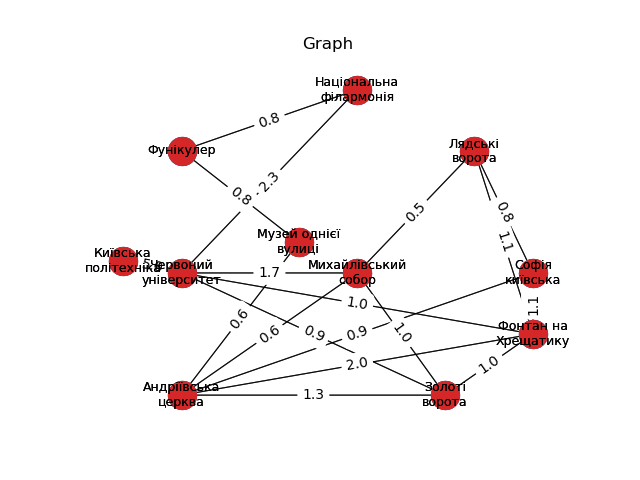
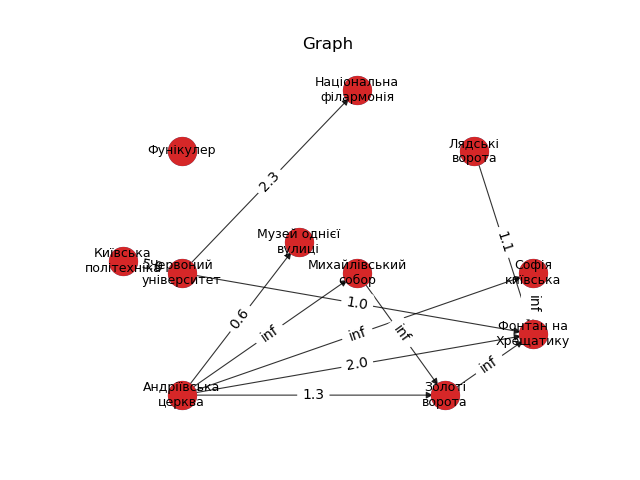
lab3 fix

diff --git a/lab_3_and_2/graph.py b/lab_3_and_2/graph.py
@@ -19,11 +19,16 @@ class Graph:
         self._position = (None, None)
 
 
-    def add_edge(self, u, v, distance, flow):
-        self.distances[u][v] = distance
-        self.distances[v][u] = distance
-        self.flows[u][v] = flow
-        self.flows[v][u] = flow
+    def add_edge(self, u, v, distance, flow, one_way=False):
+        if not one_way:
+            self.distances[u][v] = distance
+            self.distances[v][u] = distance
+            self.flows[u][v] = flow
+            self.flows[v][u] = flow
+        else:
+            self.distances[u][v] = distance
+            self.flows[u][v] = flow
+
 
     def remove_edge(self, u, v):
         self.distances[u][v] = np.inf
@@ -119,6 +124,24 @@ class GraphOperations:
         return transposed_graph
 
 
+
+    @classmethod
+    def dfs(cls, graph, node, visited, stack):
+        visited[node] = True
+        for neighbor in range(graph.num_nodes):
+            if graph.distances[node][neighbor] != float('inf') and not visited[neighbor]:
+                cls.dfs(graph, neighbor, visited, stack)
+        stack.append(node)
+
+    @staticmethod
+    def transpose(graph):
+        transposed_graph = Graph(graph.num_nodes)
+        for i in range(graph.num_nodes):
+            for j in range(graph.num_nodes):
+                if graph.distances[i][j] != float('inf'):
+                    transposed_graph.add_edge(j, i, graph.distances[i][j], graph.flows[i][j])
+        return transposed_graph
+
     @classmethod
     def algorythm_component_silnoji_zviyaznosty_po_shlyahah(cls, graph):
         visited = [False] * graph.num_nodes
@@ -130,7 +153,6 @@ class GraphOperations:
         transposed_graph = cls.transpose(graph)
 
         visited = [False] * graph.num_nodes
-
         scc_list = []
         while stack:
             current_node = stack.pop()
@@ -138,10 +160,49 @@ class GraphOperations:
                 scc = []
                 cls.dfs(transposed_graph, current_node, visited, scc)
                 scc_list.append(scc)
-
         return scc_list
 
+    @classmethod
+    def tarjan_scc(cls, graph):
+        graph.index = 0
+        graph.stack = []
+        graph.scc_list = []
+        graph.index_tracker = [None] * graph.num_nodes
+        graph.low_link = [None] * graph.num_nodes
+        graph.on_stack = [False] * graph.num_nodes
 
+        for node in range(graph.num_nodes):
+            if graph.index_tracker[node] is None:
+                cls.tarjan_dfs(graph, node)
+
+        return graph.scc_list
+
+    @classmethod
+    def tarjan_dfs(cls, graph, node):
+        graph.index_tracker[node] = graph.index
+        graph.low_link[node] = graph.index
+        graph.index += 1
+        graph.stack.append(node)
+        graph.on_stack[node] = True
+
+        for neighbor in range(graph.num_nodes):
+            if graph.distances[node][neighbor] != float('inf'):
+                if graph.index_tracker[neighbor] is None:
+                    cls.tarjan_dfs(graph, neighbor)
+                    graph.low_link[node] = min(graph.low_link[node], graph.low_link[neighbor])
+                elif graph.on_stack[neighbor]:
+                    graph.low_link[node] = min(graph.low_link[node], graph.index_tracker[neighbor])
+
+        if graph.low_link[node] == graph.index_tracker[node]:
+            scc = []
+            while True:
+                popped_node = graph.stack.pop()
+                scc.append(popped_node)
+                graph.on_stack[popped_node] = False
+                if popped_node == node:
+                    break
+            graph.scc_list.append(scc)
+            
     @staticmethod
     def graph_coloring(graph):
         colors = {}
@@ -225,49 +286,6 @@ class GraphOperations:
             return max_flow, paths
         return max_flow
 
-
-    @classmethod
-    def tarjan_scc(cls, graph: Graph):
-        graph.index = 0
-        graph.stack = []
-        graph.scc_list = []
-        graph.index_tracker = [None] * graph.num_nodes
-        graph.low_link = [None] * graph.num_nodes
-        graph.on_stack = [False] * graph.num_nodes
-
-        for node in range(graph.num_nodes):
-            if graph.index_tracker[node] is None:
-                cls.tarjan_dfs(graph, node)
-
-        return graph.scc_list
-
-
-    @classmethod
-    def tarjan_dfs(cls, graph, node):
-        graph.index_tracker[node] = graph.index
-        graph.low_link[node] = graph.index
-        graph.index += 1
-        graph.stack.append(node)
-        graph.on_stack[node] = True
-
-        for neighbor in range(graph.num_nodes):
-            if graph.get_distance(node, neighbor) != np.inf:
-                if graph.index_tracker[neighbor] is None:
-                    cls.tarjan_dfs(graph, neighbor)
-                    graph.low_link[node] = min(graph.low_link[node], graph.low_link[neighbor])
-                elif graph.on_stack[neighbor]:
-                    graph.low_link[node] = min(graph.low_link[node], graph.index_tracker[neighbor])
-
-        if graph.low_link[node] == graph.index_tracker[node]:
-            scc = []
-            while True:
-                top = graph.stack.pop()
-                graph.on_stack[top] = False
-                scc.append(top)
-                if top == node:
-                    break
-            graph.scc_list.append(scc)
-
     # Перейменована хрінь по-суті
     @classmethod
     def find_scc_path_based(cls, graph):
@@ -306,32 +324,34 @@ class GraphOperations:
                     break
             graph.scc_list.append(scc)
         return graph.scc_list
-
-
     @staticmethod
-    def draw_kiyv_map(kiyv_map:Graph, label="kiyv_map", paths:List[List[Tuple[int, int]]]=[], scc=[]):
-        G = nx.Graph()
+    def draw_kiyv_map(kiyv_map: Graph, label="kiyv_map", paths: List[List[Tuple[int, int]]] = [], scc=[]):
+        G = nx.DiGraph()  # Use directed graph since there are one-way connections
         G.add_nodes_from(range(kiyv_map.num_nodes))
 
         for u in range(kiyv_map.num_nodes):
-            for v in range(u + 1, kiyv_map.num_nodes):
+            for v in range(kiyv_map.num_nodes):
+                if u == v:
+                    continue
                 if kiyv_map.distances[u][v] != np.inf:
-                    G.add_edge(u, v, weight=kiyv_map.distances[u][v])
-                    
+                    G.add_edge(u, v, weight=kiyv_map.distances[u][v]*6)
+                if kiyv_map.distances[v][u] != np.inf:  # Also check reverse direction
+                    G.add_edge(v, u, weight=kiyv_map.distances[v][u]*6)
+
         pos = nx.spring_layout(G)
-        colors = ["tab:red", "tab:blue", "tab:green", "yellow", "orange", "indigo"] * 10 
-        
+        colors = ["tab:red", "tab:blue", "tab:green", "yellow", "orange", "indigo"] * 10
+
         for node in range(kiyv_map.num_nodes):
             pos[node] = np.array(kiyv_map.get_pos(node))
 
         nx.draw_networkx_nodes(G, pos, node_size=400)
         for lst, color in zip(scc, colors):
             nx.draw_networkx_nodes(G, pos, lst, node_size=400, node_color=color)
-        
-        nx.draw_networkx_edges(G,  pos,  width=0.8, alpha=0.8, arrows=True)
+
+        nx.draw_networkx_edges(G, pos, width=0.8, alpha=0.8, arrows=True, arrowstyle='->', arrowsize=20)
         for path, color in zip(paths, colors):
-            nx.draw_networkx_edges(G, pos, edgelist=path,width=5, edge_color=color)
-            
+            nx.draw_networkx_edges(G, pos, edgelist=path, width=5, edge_color=color, arrows=True, arrowstyle='->', arrowsize=20)
+
         labels = {node: kiyv_map.get_label(node) for node in G.nodes()}
         nx.draw_networkx_labels(G, pos, labels, font_size=9, font_color='black')
 
@@ -342,6 +362,7 @@ class GraphOperations:
         plt.axis("off")
         plt.savefig(Config.output_dir + f'{label}.png')
         plt.show()
+
 
     @staticmethod
     def draw_graph(graph, label="graph"):

diff --git a/lab_3_and_2/main_lab3.py b/lab_3_and_2/main_lab3.py
@@ -47,34 +47,33 @@ except: pass
 
 
 kiyv_map = Graph(11)
-kiyv_map.add_edge(u=0, v=6, distance=5.0,   flow=400)
-kiyv_map.add_edge(u=0, v=7, distance=1.0,   flow=400)
-kiyv_map.add_edge(u=0, v=9, distance=2.5,   flow=400)
-
-kiyv_map.add_edge(u=1, v=2, distance=0.6,   flow=400)
-kiyv_map.add_edge(u=1, v=3, distance=1.3,   flow=400)
-kiyv_map.add_edge(u=1, v=7, distance=2.0,   flow=400)
-kiyv_map.add_edge(u=1, v=8, distance=0.95,  flow=400)
-kiyv_map.add_edge(u=1, v=10, distance=0.6,  flow=400)
-kiyv_map.add_edge(u=2, v=0, distance=1.7,   flow=400)
-kiyv_map.add_edge(u=2, v=3, distance=1.0,   flow=400)
-kiyv_map.add_edge(u=3, v=0, distance=0.9,   flow=400)
-kiyv_map.add_edge(u=3, v=1, distance=1.3,   flow=400)
-kiyv_map.add_edge(u=3, v=7, distance=1.0,   flow=400)
-kiyv_map.add_edge(u=3, v=3, distance=0.55,  flow=400)
-kiyv_map.add_edge(u=4, v=2, distance=0.5,   flow=400)
-kiyv_map.add_edge(u=4, v=7, distance=1.1,   flow=400)
-kiyv_map.add_edge(u=5, v=5, distance=0.75,  flow=400)
-kiyv_map.add_edge(u=6, v=0, distance=5.0,   flow=400)
-kiyv_map.add_edge(u=7, v=0, distance=1.0,   flow=400)
-kiyv_map.add_edge(u=7, v=1, distance=2.0,   flow=400)
-kiyv_map.add_edge(u=7, v=4, distance=1.1,   flow=400)
-kiyv_map.add_edge(u=7, v=8, distance=1.1,   flow=400)
-kiyv_map.add_edge(u=8, v=4, distance=0.75,  flow=400)
-kiyv_map.add_edge(u=9, v=0, distance=2.3,   flow=400)
-kiyv_map.add_edge(u=9, v=5, distance=0.75,  flow=400)
-kiyv_map.add_edge(u=10, v=1, distance=0.6,  flow=400)
-kiyv_map.add_edge(u=10, v=5, distance=0.8,  flow=400)
+kiyv_map.add_edge(u=0, v=6, distance=5.0,   flow=400, one_way=True)
+kiyv_map.add_edge(u=0, v=7, distance=1.0,   flow=400, one_way=True)
+kiyv_map.add_edge(u=0, v=9, distance=2.5,   flow=400, one_way=True)
+kiyv_map.add_edge(u=1, v=2, distance=0.6,   flow=400, one_way=True)
+kiyv_map.add_edge(u=1, v=3, distance=1.3,   flow=400, one_way=True)
+kiyv_map.add_edge(u=1, v=7, distance=2.0,   flow=400, one_way=True)
+kiyv_map.add_edge(u=1, v=8, distance=0.95,  flow=400, one_way=True)
+kiyv_map.add_edge(u=1, v=10, distance=0.6,  flow=400, one_way=True)
+kiyv_map.add_edge(u=2, v=0, distance=1.7,   flow=400, one_way=True)
+kiyv_map.add_edge(u=2, v=3, distance=1.0,   flow=400, one_way=True)
+kiyv_map.add_edge(u=3, v=0, distance=0.9,   flow=400, one_way=True)
+kiyv_map.add_edge(u=3, v=1, distance=1.3,   flow=400, one_way=True)
+kiyv_map.add_edge(u=3, v=7, distance=1.0,   flow=400, one_way=True)
+kiyv_map.add_edge(u=3, v=3, distance=0.55,  flow=400, one_way=True)
+kiyv_map.add_edge(u=4, v=2, distance=0.5,   flow=400, one_way=True)
+kiyv_map.add_edge(u=4, v=7, distance=1.1,   flow=400, one_way=True)
+kiyv_map.add_edge(u=5, v=5, distance=0.75,  flow=400, one_way=True)
+kiyv_map.add_edge(u=6, v=0, distance=5.0,   flow=400, one_way=True)
+kiyv_map.add_edge(u=7, v=0, distance=1.0,   flow=400, one_way=True)
+kiyv_map.add_edge(u=7, v=1, distance=2.0,   flow=400, one_way=True)
+kiyv_map.add_edge(u=7, v=4, distance=1.1,   flow=400, one_way=True)
+kiyv_map.add_edge(u=7, v=8, distance=1.1,   flow=400, one_way=True)
+kiyv_map.add_edge(u=8, v=4, distance=0.75,  flow=400, one_way=True)
+kiyv_map.add_edge(u=9, v=0, distance=2.3,   flow=400, one_way=True)
+kiyv_map.add_edge(u=9, v=5, distance=0.75,  flow=400, one_way=True)
+kiyv_map.add_edge(u=10, v=1, distance=0.6,  flow=400, one_way=True)
+kiyv_map.add_edge(u=10, v=5, distance=0.8,  flow=400, one_way=True)
 
 
 kiyv_map.set_label(0, "Червоний\nуніверситет")
